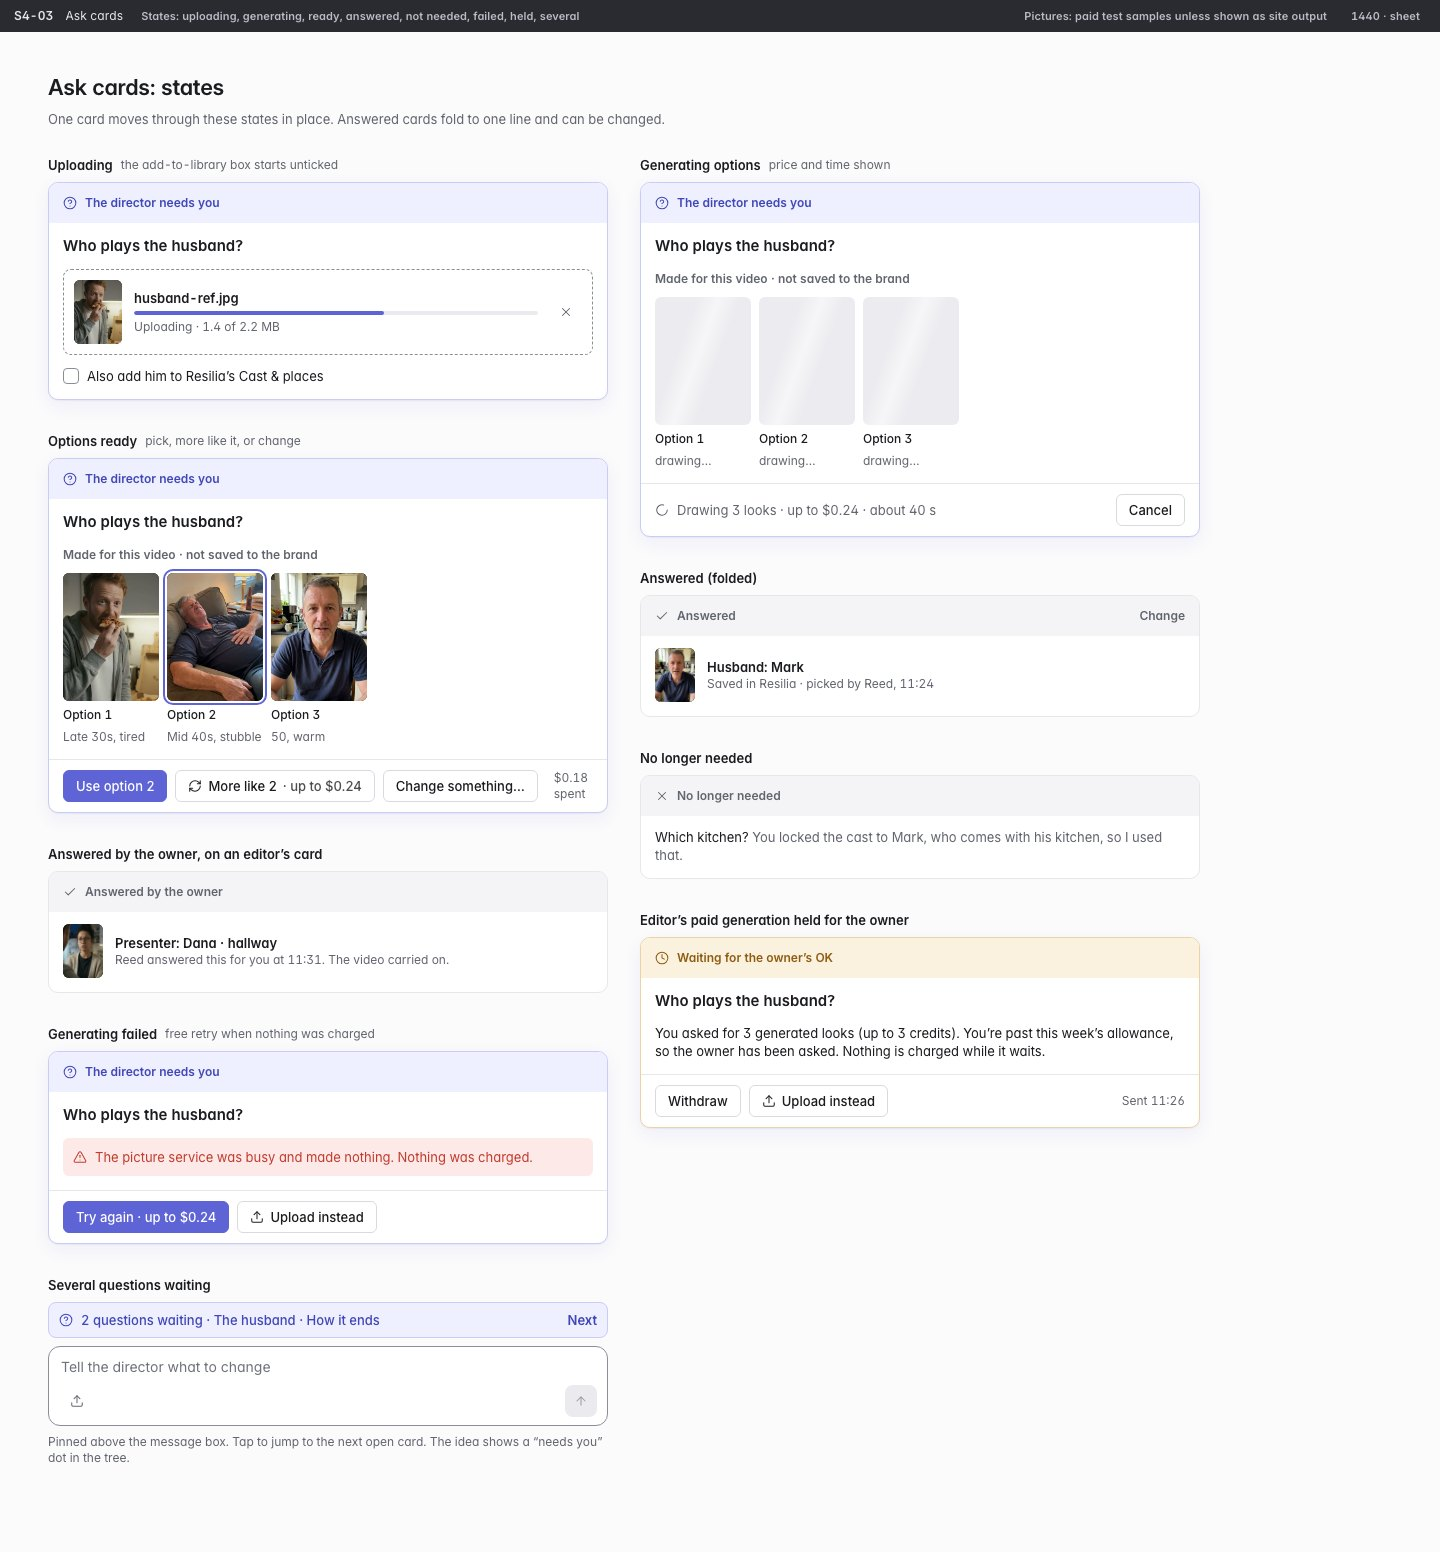
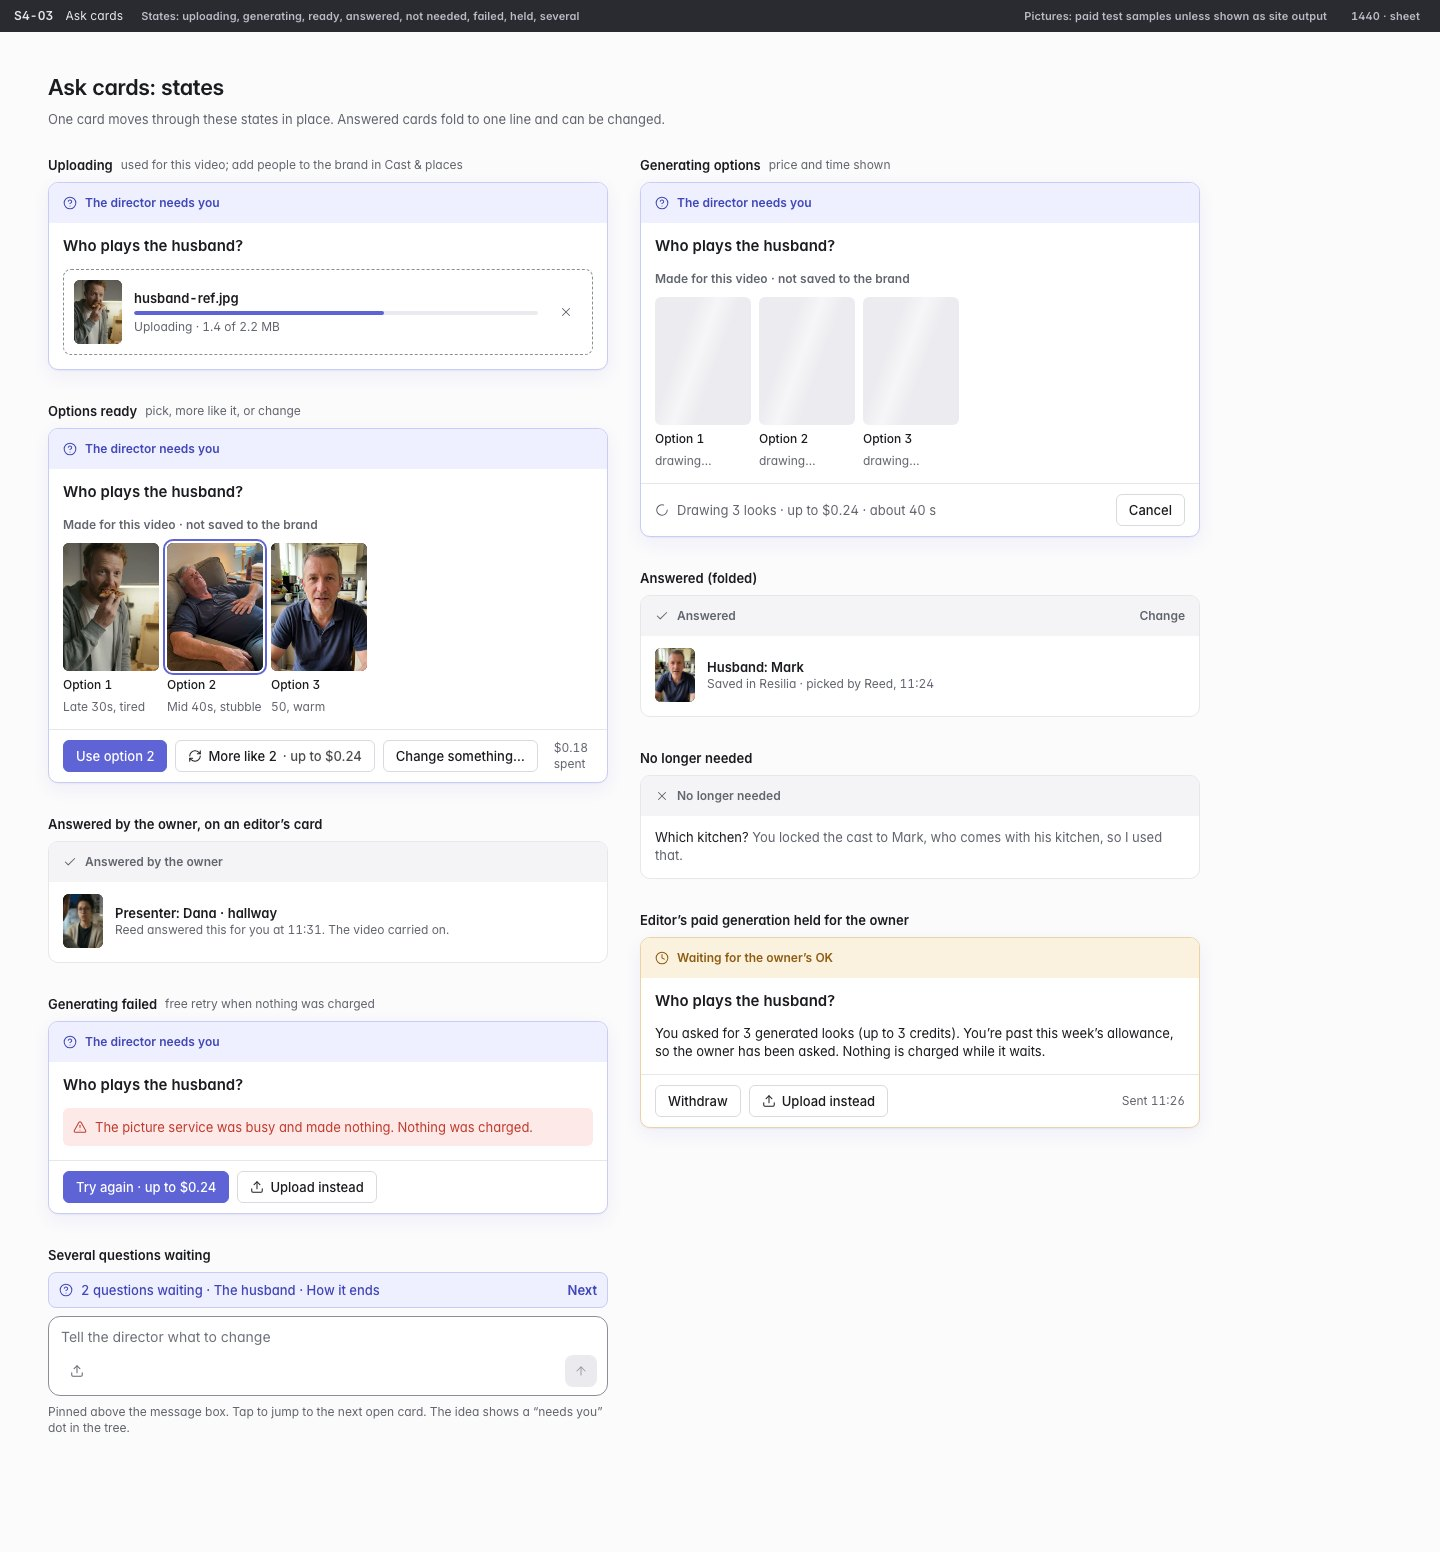
v6: Reed's answers (upload box dropped, story pick after a wait), build plan

diff --git a/docs/design/v6/src/b_s4.py b/docs/design/v6/src/b_s4.py
@@ -91,8 +91,7 @@ board("S4-02", "Ask cards", "Kinds 2 of 2: story choice, open question, start OK
 
 # ---------- states ----------
 uploading = ask_card("The director needs you", "Who plays the husband?", None, ways=(),
-    body_extra=f'<div class="row g3" style="padding:10px;border:1px dashed var(--border-strong);border-radius:8px">{media("skit_2",48,64,tag=False)}<div class="col g1 grow"><span class="t-sm w6">husband-ref.jpg</span><div class="prog"><i style="width:62%"></i></div><span class="t-xs muted">Uploading · 1.4 of 2.2 MB</span></div><span class="iconbtn">{ic("x","s14")}</span></div>'
-    + f'<label class="row g2 t-sm"><span class="check"></span>Also add him to Resilia’s Cast &amp; places</label>')
+    body_extra=f'<div class="row g3" style="padding:10px;border:1px dashed var(--border-strong);border-radius:8px">{media("skit_2",48,64,tag=False)}<div class="col g1 grow"><span class="t-sm w6">husband-ref.jpg</span><div class="prog"><i style="width:62%"></i></div><span class="t-xs muted">Uploading · 1.4 of 2.2 MB</span></div><span class="iconbtn">{ic("x","s14")}</span></div>')
 
 generating = ask_card("The director needs you", "Who plays the husband?", None, ways=(),
     options=[(None, "Option 1", "drawing…"), (None, "Option 2", "drawing…"), (None, "Option 3", "drawing…")],
@@ -125,7 +124,7 @@ queue = f'''<div class="col g2"><div class="pinbar" style="margin:0">{ic("circle
 
 board("S4-03", "Ask cards", "States: uploading, generating, ready, answered, not needed, failed, held, several",
       sheet("Ask cards: states", "One card moves through these states in place. Answered cards fold to one line and can be changed.",
-            [cell("Uploading", uploading, "the add-to-library box starts unticked"), cell("Generating options", generating, "price and time shown"),
+            [cell("Uploading", uploading, "used for this video; add people to the brand in Cast & places"), cell("Generating options", generating, "price and time shown"),
              cell("Options ready", ready, "pick, more like it, or change"), cell("Answered (folded)", answered),
              cell("Answered by the owner, on an editor’s card", answered_owner), cell("No longer needed", not_needed),
              cell("Generating failed", failed, "free retry when nothing was charged"), cell("Editor’s paid generation held for the owner", held),

diff --git a/docs/design/v6/build-plan.md b/docs/design/v6/build-plan.md
@@ -1,0 +1,60 @@
+# v6 build plan: small PRs
+
+For Reed, the lead (kuala-lumpur) and Next-Lead. Reed approved the v6 boards on 3 Nov and answered the open items (see `review.md`).
+
+Every web PR follows rule 33: it shows each changed board beside a screenshot at 1440 and 390, lists any difference and why, and deletes what it replaces (rule 26).
+
+## Who builds what, and when
+
+- **The lead builds the server side.** It's already in his director brief (asking, watching, models, the cut, organisation). Pieces A–F below say what the screens need from each, so it's built once. Each is a few routes plus data on top of what exists.
+- **Next-Lead's builders build the screens**, after the v5 PRs that touch the same files have merged. The table at the end lists those files.
+- **Rules for the Producer to update** (Reed's answers, 3 Nov):
+  - Rule 11: the director watches every take and redoes what's weak within the budget, and says so. This replaces "never redoes on its own".
+  - Rule 21: no per-item approval lists, so no Approve all; the video page is chat plus panel.
+  - Rule 33: v6 replaces v5 for the screens drawn here.
+  - New: a story choice with no answer gets the director's pick after a set wait.
+  - Rule 12 stays as it is: generated looks are never saved, and uploads in a chat aren't added to the brand for now.
+
+## Server (the lead)
+
+| # | Piece | What the screens need | Boards | Size |
+|---|---|---|---|---|
+| A | Nested folders | `parent_id` on folders (today they're flat "projects"), move a folder, Unsorted = no folder (as "No project" is now). A tree read: folders with counts plus each idea's status. Delete moves ideas to Unsorted with Undo (exists). | S0-01, S1, P-01 | S |
+| B | The ask move | An ask record: kind, question, why, saved options, state (open, answered, answered by the owner, no longer needed, failed, held). Answers: pick saved, upload, reply, or generate options with an up-to price; generated items stay with the video. A story choice carries a default pick and a time; after it passes, the director takes its pick. | S4-01 to S4-04, S3-05, S9-01 | M |
+| C | One live progress record per run | Scenes with each clip's state (done, making, to do, redone, changed and not yet seen) and the step list. A "seen" mark per person, so changed clips stay outlined until watched. | S3-03, S3-04, S3-12, S3-13 | M |
+| D | The delivery note | Structured fields: made, watched and redid (with timecodes), unsure of, needs from you, real cost. | S3-09, S3-10 | S |
+| E | Cut edits | Cut versions (Cut 1, Cut 2), with the old one playable until the new one is ready. Trim, re-time to the words (word times), presenter side, size or hidden per span, swap B-roll, music quieter by an amount, sound effects per clip (#1291 has these). Each director edit is logged with Undo. Re-making the cut is free. | S7-01 to S7-07 | M |
+| F | Per-clip model and why | The model each clip used and one line on why. The prompt can be read and changed (mostly exists). | S6-02, S6-03 | S |
+
+## Screens (Next-Lead's builders, in this order)
+
+| # | PR | Boards | Needs | Replaces (delete) | Wait for |
+|---|---|---|---|---|---|
+| 1 | Folder tree in the rail | S0-01, P-01 | A | The "Project ▾" picker (`folders/Projects.tsx`) | #1253, #1264 |
+| 2 | Brand home: an open folder (idea cards, list view for 100+, select, move, archive) | S1-01 to S1-08, P-02 | A | The Videos table's grouping (`videos/VideosPage.tsx`, `VideoRows.tsx`) | #1253 |
+| 3 | Video page: chat plus preview panel, with today's panes inside the panel | S3-01, S3-09, S3-15, S3-16, P-04, P-05 | — | The tab row and `DirectorPanel` | #1185, #1269 |
+| 4 | Progress card with the filmstrip; the delivery note | S3-03, S3-04, S3-08, S3-11, S3-12, S3-13 | C, D | One-message-per-step rows in `DirectorChat` | 3 |
+| 5 | Ask cards, the pinned bar, and the start-of-run and budget cards | S3-02, S3-05 to S3-07, S4-01 to S4-04, P-06, P-07, P-15 | B | — | 3 |
+| 6 | Needs you lists asks, money and stuck videos across brands | S9-01, P-14 | B | — | 5 |
+| 7 | New video: one message box, format and style picture cards with sample clips and a B-roll line | S2-01 to S2-07, P-03 | — | The Freestyle form (`freestyle/Composer.tsx`, `FreestylePage.tsx`) | — |
+| 8 | Clips tab: grouped by scene, filters, one clip open | S6-01 to S6-06, P-10, P-11 | C, F | `ClipsPane`, `ClipsStep` | 3 |
+| 9 | Cast and presenter tab | S5-01 to S5-04, P-09 | — | The old cast step inside the video | 3, #1269 |
+| 10 | Cut editor | S7-01 to S7-07, P-12 | E | `FinalPane`'s card | 3 |
+| 11 | Library: Presenters & voices, Products, new-item states | S8-01 to S8-08, P-13 | — | — | #1259, #1265, #1267, #1266 |
+
+Pieces 1, 2 and 7 can start as soon as their wait-for PRs merge. Pieces 3–10 go in order. Each one leaves the test site working.
+
+**Style sample clips (piece 7).** These need one short clip per style. Use the 3 Nov test samples already on disk, so nothing paid is needed. Reed swaps in his own clips later.
+
+## Files to leave alone until their PR merges
+
+| Open PR | Files |
+|---|---|
+| #1253 (Videos to v5) | `web/src/folders/Projects.tsx`, `web/src/videos/VideosPage.tsx`, `VideoRows.tsx`, `components/Badge.tsx` |
+| #1259 (Cast & places) | `web/src/library/LibraryPage.tsx` |
+| #1264 (Usage, Team, rail account row) | `web/src/shell/Shell.tsx`, `AccountMenu.tsx`, `usage/*`, `team/TeamPage.tsx` |
+| #1265, #1267 (Media) | `web/src/media/MediaPage.tsx`, `server/app/routes/media.py`, `routes/project_clips.py`, migration n25 |
+| #1266 (Brand unsaved changes) | `web/src/brand/*`, `web/src/main.tsx` |
+| #1269 (Cast lock) | `web/src/scripts/CastStep.tsx`, `LockPanel.tsx`, `ScriptFlowPage.tsx`, `projects/RoleFacts.tsx` |
+| #1185 (director moves) | `server/app/director.py`, `director_tools.py`. Piece B also edits `director_tools.py`, so it goes after #1185. |
+| #1260, #1268, #854 | Script steps, a words test, the Flow-QA checklist: no overlap with v6 |

diff --git a/docs/design/v6/coverage.md b/docs/design/v6/coverage.md
@@ -16,8 +16,8 @@ Board ids are the file names in `boards/` (for example S3-09 = `boards/S3-09.jpg
 | 8 | Nothing reaches Clips without an approved sheet; one-click way to Cast | S5-01, S5-03 (no sheet: Clips waits, one press away), S3-05 | |
 | 9 | One person is never two roles; Merge with Undo; "They're different" | S5-01, S5-03 | Merge's Undo is the standard toast (as in S0-01's delete); not drawn separately. |
 | 10 | Character sheets set faces; outfits per video | S5-03 (outfit just for this video) | Attaching sheets is server work. |
-| 11 | No automatic face checks; changing to Advice that never redoes on its own | S3-09, S6-03, S6-04, S6-05 | **Open for Reed:** the director brief (3 Nov) has the director watch every take and redo what's weak within the budget, and the boards show it doing that. That is newer than rule 11's "never redoes on its own", so the boards follow the brief (rule 1). Please confirm. |
-| 12 | Only Cast & places characters go into the library; video looks can't be saved | S4-03, S5-01 ("not in the library"), S8 | No "save to brand" on generated looks (Reed, 3 Nov). **Open for Reed:** S4-03 has one unticked box on an upload, "Also add him to Resilia's Cast & places". Keep it, or drop it until later? |
+| 11 | No automatic face checks; changing to Advice that never redoes on its own | S3-09, S6-03, S6-04, S6-05 | The boards follow the director brief: the director watches every take and redoes what's weak within the budget. Reed confirmed on 3 Nov ("the brief is preferred"); the Producer updates rule 11. |
+| 12 | Only Cast & places characters go into the library; video looks can't be saved | S4-03, S5-01 ("not in the library"), S8 | No "save to brand" on generated looks, and no "add to the brand" on uploads for now (Reed, 3 Nov). People are added to a brand in Cast & places (S8). |
 | 13 | App screens are on a phone in the hand; real-image cut-ins off by default | S4-01 (brand item card) | Shot composition is director work, not a screen. |
 | 14 | A brand's screen is the screen; coin and numbers follow the story | S4-01 ("I'll change the coin and numbers to fit"), S8-05 | |
 | 15 | A fomo mention accepts any home-type screen (Advice) | Not covered | Director check, with no screen of its own. |
@@ -41,6 +41,7 @@ Board ids are the file names in `boards/` (for example S3-09 = `boards/S3-09.jpg
 | 33 | v5 wireframes, Linear look, desktop first, rail, Needs you, Freestyle | Whole set | Same tokens (light), Inter, one indigo main press per screen, statuses as a dot plus words. **Changes from v5 for Reed to approve:** free folders in the rail replace "Project ▾"; the video page is chat plus panel; New video replaces Freestyle's form. Scripts, Media, Usage, Team and Settings stay as v5. |
 | 34 | The "up to" price covers the run; the owner's OK covers it; 75-credit director limit; past it waits for the owner | S3-02 (start OK), S3-06, S4-02 | **Partly covered:** the "director's own time past 75 credits" ask reuses the budget card (S4-02) with other words. Not drawn separately. |
 | 35 | The director's first move is a treatment | S3-02 | Its craft sources aren't a screen. |
+| — | A story choice with no answer (Reed, 3 Nov): after a while the director takes its own pick | S4-02 | New; the Producer adds it to the rules. |
 | 36 | "Up to" on every price before a charge | Every price on every board | Budgets use the usual cost (S3-06's "budget $16.86"). |
 
 ## Reed's director brief (3 Nov)

diff --git a/docs/design/v6/review.md b/docs/design/v6/review.md
@@ -45,12 +45,12 @@ Below: what they found, what was fixed, and what's still open for Reed.
 - The locked-line alternatives and the one-press split.
 - The cut editor's words under the player, with the director's edits marked and Undo on each.
 
-## Still open for Reed
+## Reed's answers (3 Nov)
 
-1. **The director redoing things on its own (rule 11).** Rule 11 says automatic checks never redo anything on their own. Your 3 Nov director brief says the director watches every take and redoes what's weak within the budget. The boards follow the brief because it's newer. OK?
-2. **Adding an upload to the brand (rule 12).** When you upload a person in an ask card, there's one unticked box: "Also add him to Resilia's Cast & places" (S4-03). Generated looks never get it. Keep the box, or drop it for now?
-3. **Approve all (rule 21).** v6 has no per-item approval list: the director approves clean work itself, and only flags come to you. So "Approve all" appears nowhere. The "Check prompts before takes" setting would sit in the Locks menu; it isn't drawn. OK?
-4. **What changes from v5 (rule 33).** Free folders in the rail replace "Project ▾". The video page becomes chat plus a preview panel instead of the tab row. New video replaces the Freestyle form. Scripts, Media, Usage, Team and Settings stay as v5.
-5. **A story choice with a default.** S4-02 says "I'll go with A at 11:00 if I don't hear back". Should the director pick on its own after a while, or wait as long as it takes?
-6. **Phone boards.** There are 15, not about 25. The other states use the same layouts as desktop: same card, narrower.
-7. **Not reviewed against the 57-board v5 canvas.** It's in the UX-Auditor's session, which I couldn't reach.
+1. **The director redoing on its own:** the brief wins. Rule 11 needs updating or removing; that's for the Producer (see `build-plan.md`).
+2. **The upload box:** dropped for now. S4-03 no longer has it. Uploads are used for that video; people are added to a brand in Cast & places.
+3. **No Approve all:** agreed.
+4. **The changes from v5:** approved ("these are awesome").
+5. **A story choice:** after a while, the director picks its suggestion, as S4-02 shows.
+
+Still to know: there are 15 phone boards, because the other states reuse the desktop layouts. The 57-board v5 canvas wasn't reachable for comparison.

diff --git a/docs/design/v6/README.md b/docs/design/v6/README.md
@@ -1,6 +1,6 @@
 # Brand Studio v6 wireframes: the director-first studio
 
-For Reed. Design only: nothing here is built, and nothing here spent money.
+For Reed. Design only: nothing here is built, and nothing here spent money. Approved by Reed on 3 Nov.
 
 **What changes from v5.** Each video idea is one chat with the director, like working with the agent sessions. A preview panel beside the chat shows the work: the plan, the cast, the clips and the cut. The video is drawn everywhere as a strip of real frames, scene by scene. It fills in as clips are made, and clips the director changed stay outlined until you've watched them. Ideas live in free folders inside each brand. When the director can't decide something, it asks with a card: pick something saved, upload, reply, or generate options with the price first. It keeps working on everything else while it waits.
 
@@ -13,7 +13,8 @@ For Reed. Design only: nothing here is built, and nothing here spent money.
 **Read with these.**
 - [flow.md](flow.md): from an idea to the delivered cut, and what the owner and an editor each see.
 - [coverage.md](coverage.md): every Current rule, every point of the director brief and every ledger decision, mapped to the board that handles it, or "not covered" with the reason.
-- [review.md](review.md): the outside review, what was fixed, and what's still open for Reed.
+- [review.md](review.md): the outside review, what was fixed, and Reed's answers.
+- [build-plan.md](build-plan.md): the small PRs that build it, and who builds each.
 
 **Re-render.** `cd src && python3 b_s3.py && python3 render.py S3`. Each `b_*.py` writes its boards' HTML; `render.py` turns them into JPGs with headless Chrome at 1x.
 

diff --git a/docs/design/v6/src/README.head.md b/docs/design/v6/src/README.head.md
@@ -1,6 +1,6 @@
 # Brand Studio v6 wireframes: the director-first studio
 
-For Reed. Design only: nothing here is built, and nothing here spent money.
+For Reed. Design only: nothing here is built, and nothing here spent money. Approved by Reed on 3 Nov.
 
 **What changes from v5.** Each video idea is one chat with the director, like working with the agent sessions. A preview panel beside the chat shows the work: the plan, the cast, the clips and the cut. The video is drawn everywhere as a strip of real frames, scene by scene. It fills in as clips are made, and clips the director changed stay outlined until you've watched them. Ideas live in free folders inside each brand. When the director can't decide something, it asks with a card: pick something saved, upload, reply, or generate options with the price first. It keeps working on everything else while it waits.
 
@@ -13,7 +13,8 @@ For Reed. Design only: nothing here is built, and nothing here spent money.
 **Read with these.**
 - [flow.md](flow.md): from an idea to the delivered cut, and what the owner and an editor each see.
 - [coverage.md](coverage.md): every Current rule, every point of the director brief and every ledger decision, mapped to the board that handles it, or "not covered" with the reason.
-- [review.md](review.md): the outside review, what was fixed, and what's still open for Reed.
+- [review.md](review.md): the outside review, what was fixed, and Reed's answers.
+- [build-plan.md](build-plan.md): the small PRs that build it, and who builds each.
 
 **Re-render.** `cd src && python3 b_s3.py && python3 render.py S3`. Each `b_*.py` writes its boards' HTML; `render.py` turns them into JPGs with headless Chrome at 1x.
 
